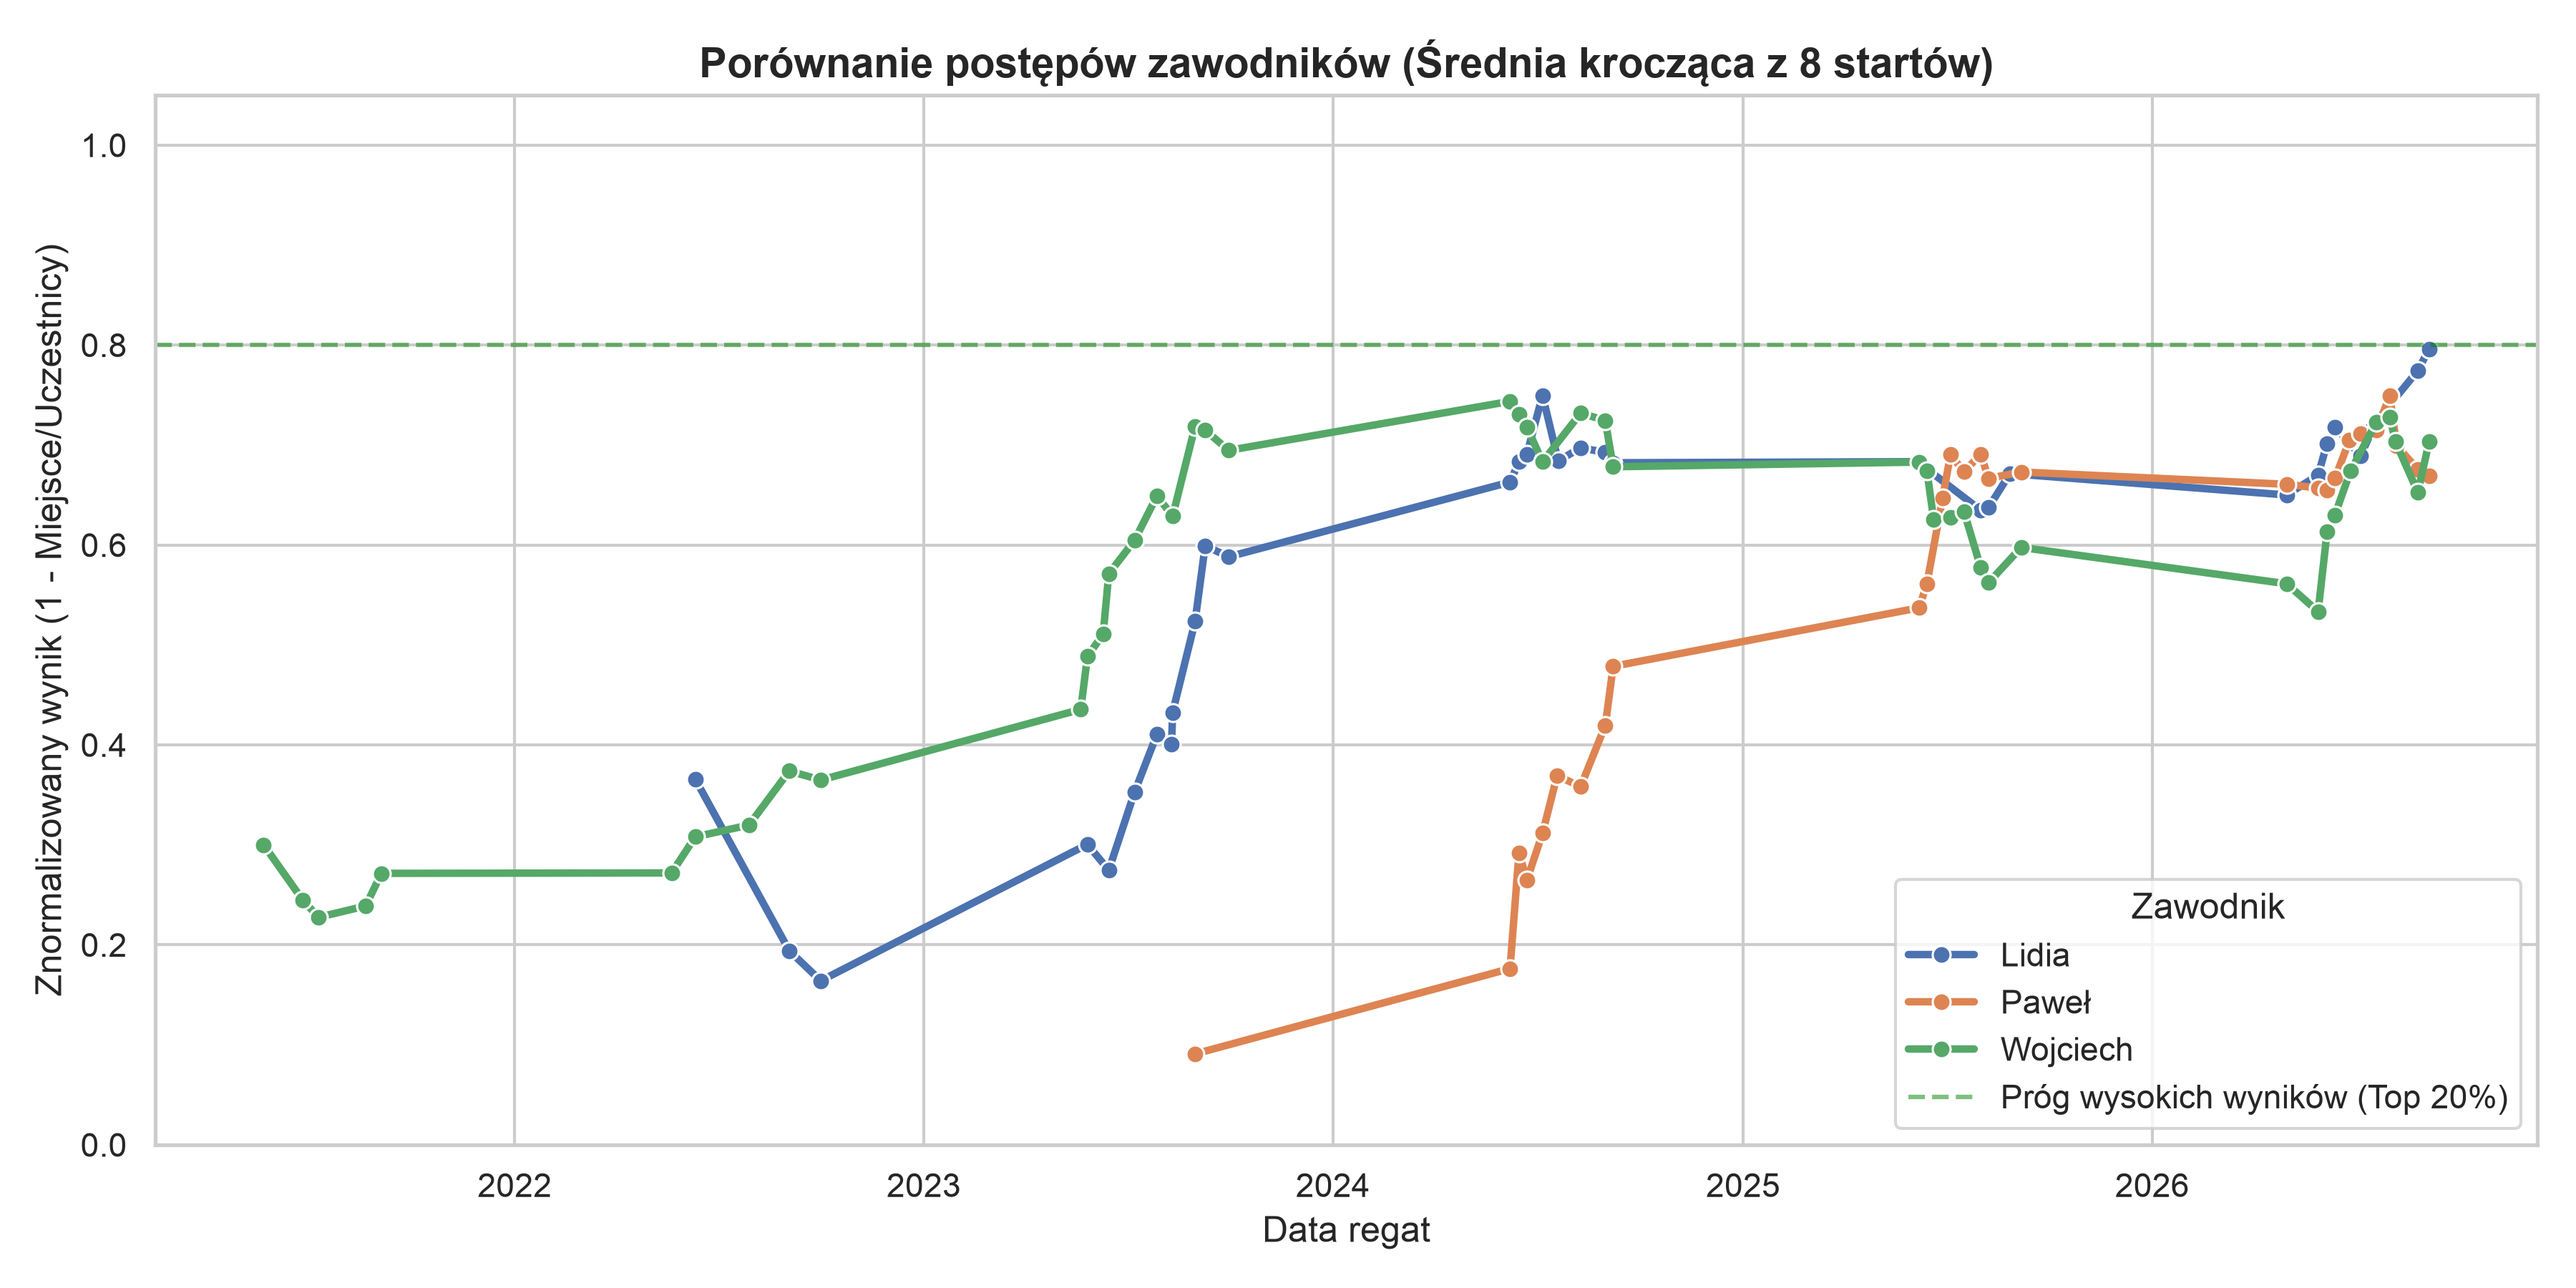
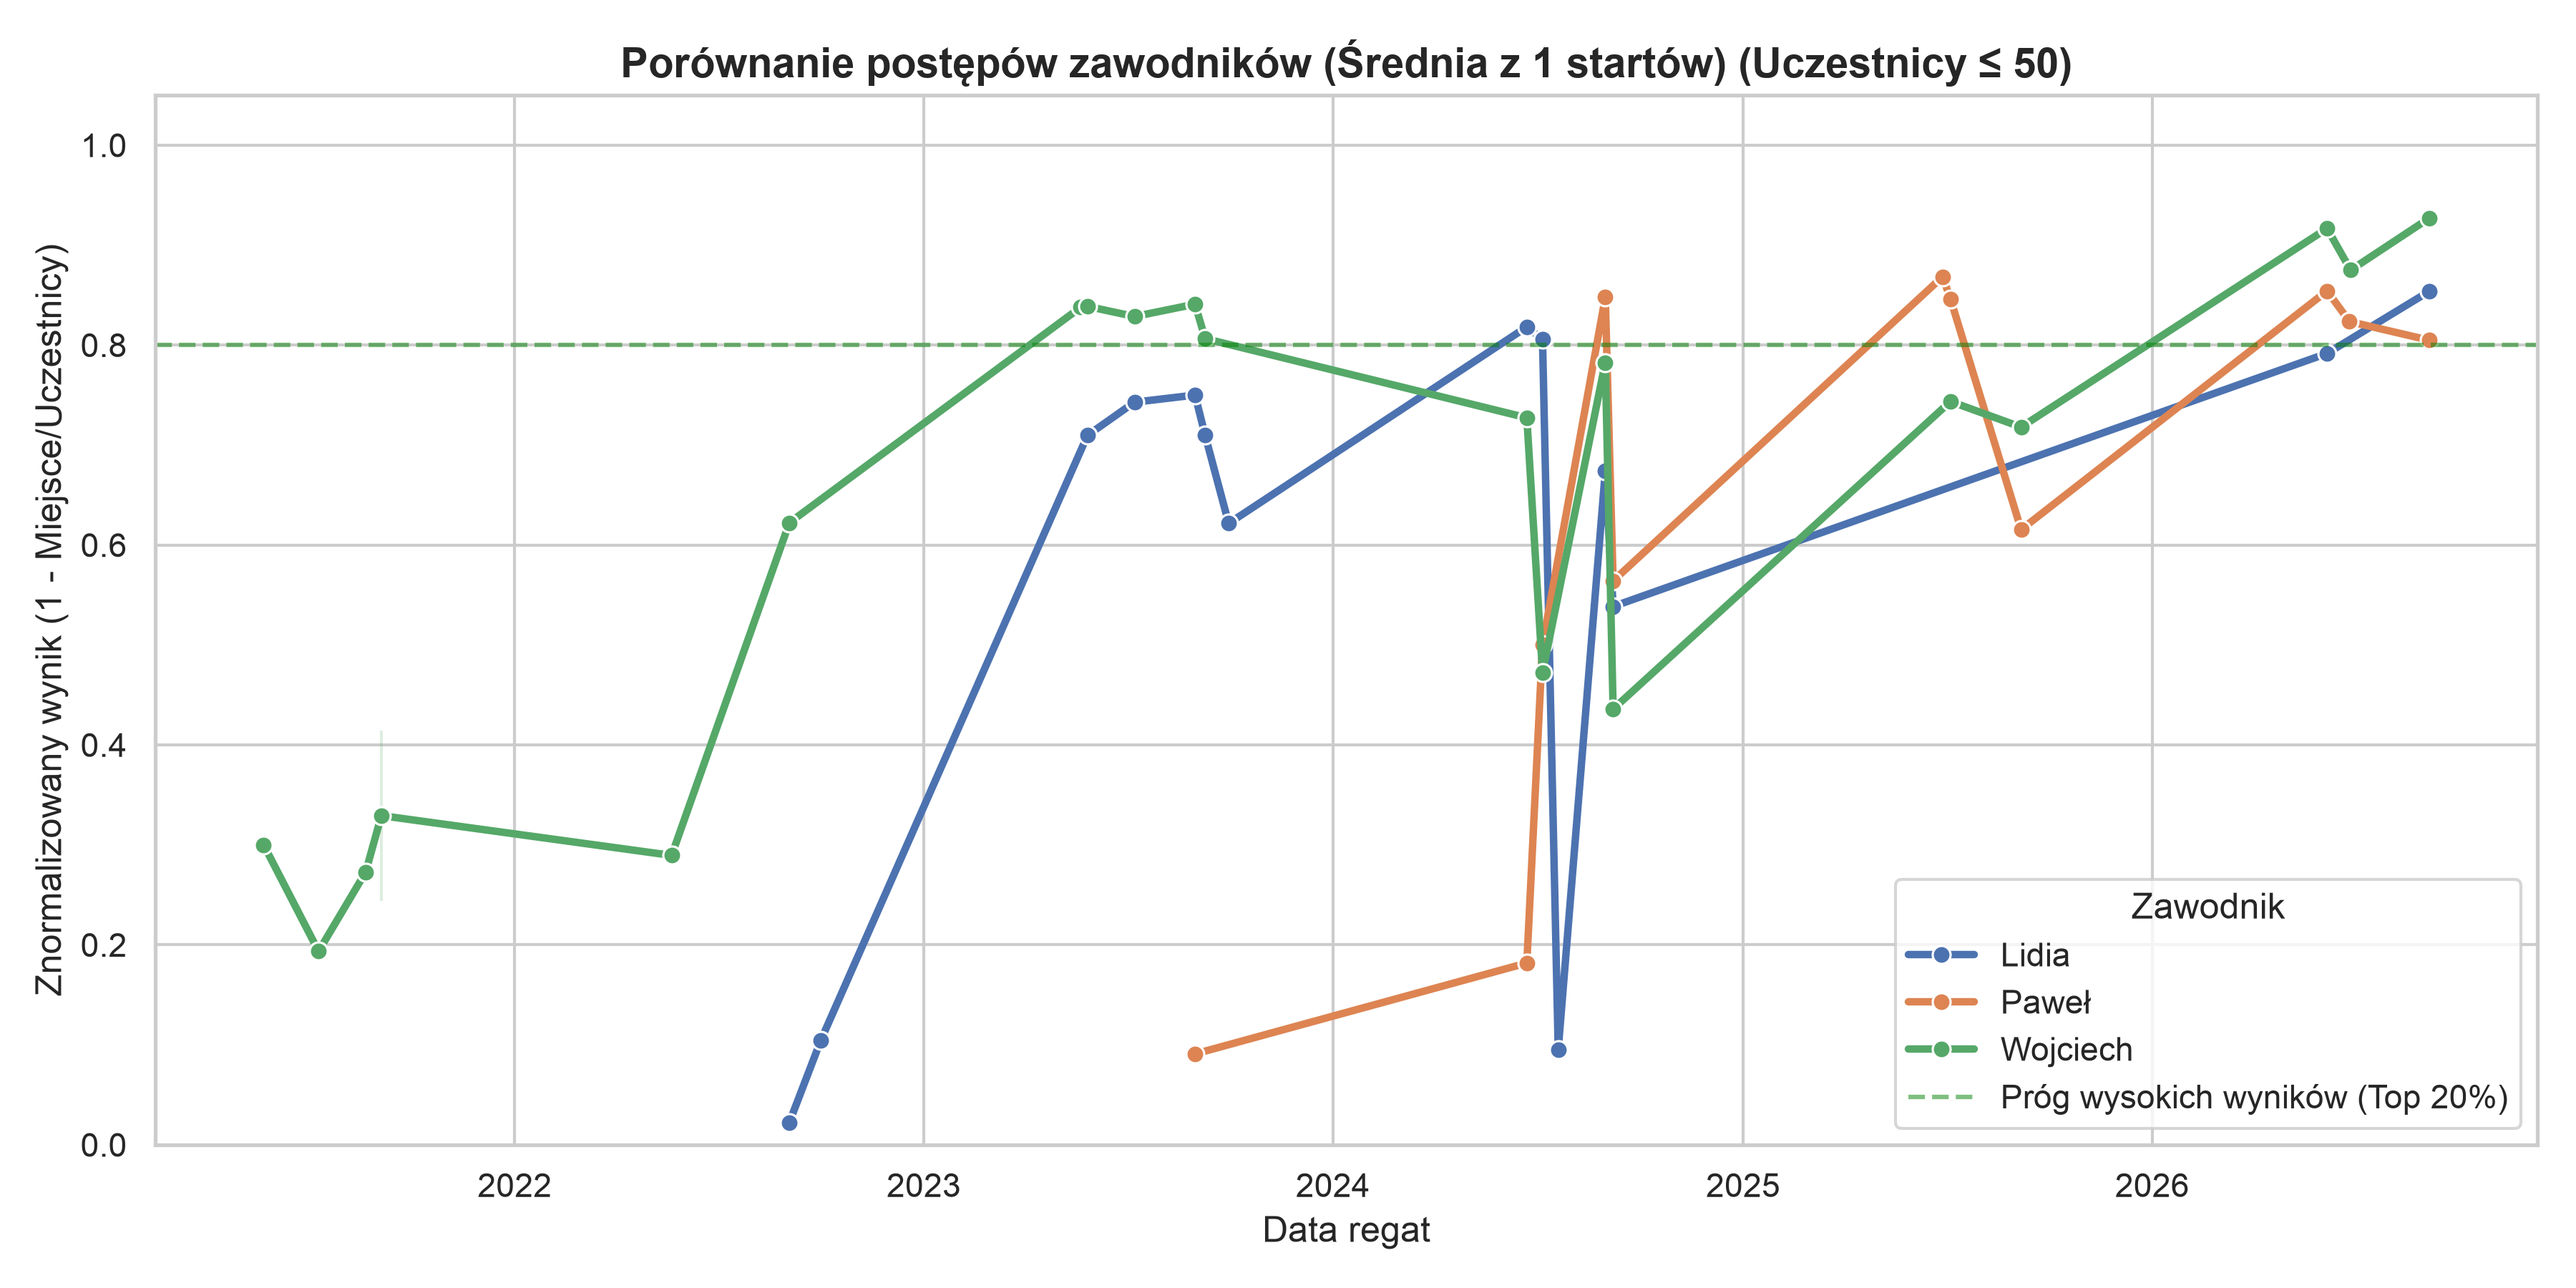
Feat: Dodanie filtracji regat (wielkość i wykluczanie z dynamiczną listą) w generate_charts.py

diff --git a/src/generate_charts.py b/src/generate_charts.py
@@ -14,24 +14,82 @@ os.makedirs(ASSETS_DIR, exist_ok=True)
 def get_window_size():
     """Pobiera od użytkownika rozmiar okna średniej kroczącej (1-10)."""
     user_input = input(
-        "Podaj liczbę startów do średniej kroczącej (1-10) [domyślnie: 10]: "
+        "\n1. Podaj liczbę startów do średniej kroczącej (1-10) [domyślnie: 10]: "
+    ).strip()
+    if not user_input:
+        return 10
+    try:
+        val = int(user_input)
+        return val if 1 <= val <= 10 else 10
+    except ValueError:
+        return 10
+
+
+def get_participant_filter():
+    """Pobiera filtr dotyczący liczby uczestników regat."""
+    print("\n2. Wybór filtru liczby uczestników regat:")
+    print("   [1] Wszystkie regaty (brak filtru)")
+    print("   [2] Tylko ogólnopolskie regaty (powyżej 50 zawodników)")
+    print("   [3] Tylko kregionalne regaty (50 i mniej zawodników)")
+    choice = input("   Wybierz opcję (1-3) [domyślnie: 1]: ").strip()
+
+    if choice == "2":
+        return "above_50"
+    elif choice == "3":
+        return "below_equal_50"
+    return "all"
+
+
+def get_excluded_regattas(filtered_df, regatta_col):
+    """Wyświetla listę regat (przefiltrowaną wstępnie wg liczby uczestników) i umożliwia wykluczenie pozycjonalne."""
+    print("\n3. Czy chcesz wykluczyć konkretne regaty z obecnej listy?")
+    choice = input("   [t/N]: ").strip().lower()
+
+    if choice != "t":
+        return []
+
+    # Pobranie unikalnych regat z przefiltrowanego już DataFrame
+    regatta_info = (
+        filtered_df[[regatta_col, "Liczba_uczestnikow"]]
+        .drop_duplicates()
+        .dropna(subset=[regatta_col])
+    )
+    regatta_info = regatta_info.sort_values(by=regatta_col)
+
+    if regatta_info.empty:
+        print("  Brak regat spełniających kryteria w bazie.")
+        return []
+
+    print("\n   Dostępne regaty (po uwzględnieniu filtru liczby uczestników):")
+    regattas_list = []
+    for idx, (_, row) in enumerate(regatta_info.iterrows(), 1):
+        name = row[regatta_col]
+        participants = int(row["Liczba_uczestnikow"])
+        regattas_list.append(name)
+        print(f"   [{idx}] {name} ({participants} zawodników)")
+
+    user_input = input(
+        "\nPodaj numery regat do wykluczenia rozdzielone przecinkami (np. 1, 4): "
     ).strip()
 
     if not user_input:
-        return 10
+        return []
 
-    try:
-        val = int(user_input)
-        if 1 <= val <= 10:
-            return val
-        print("⚠ Liczba spoza zakresu 1-10. Ustawiam domyślnie 10.")
-        return 10
-    except ValueError:
-        print("⚠ Nieprawidłowy format. Ustawiam domyślnie 10.")
-        return 10
+    excluded = []
+    for part in user_input.split(","):
+        try:
+            num = int(part.strip())
+            if 1 <= num <= len(regattas_list):
+                excluded.append(regattas_list[num - 1])
+        except ValueError:
+            continue
+
+    if excluded:
+        print(f"   Wykluczono: {', '.join(excluded)}")
+    return excluded
 
 
-def generate_chart(window_size):
+def generate_chart():
     if not os.path.exists(DB_PATH):
         raise FileNotFoundError(
             f"Brak bazy danych w {DB_PATH}. Uruchom wpierw src/etl.py!"
@@ -43,15 +101,51 @@ def generate_chart(window_size):
     conn.close()
 
     df["Data_rozpoczecia"] = pd.to_datetime(df["Data_rozpoczecia"])
+
+    # Określenie kolumny z nazwą regat
+    regatta_col = (
+        "Nazwa_regat_clean"
+        if "Nazwa_regat_clean" in df.columns
+        and df["Nazwa_regat_clean"].notna().any()
+        else "Nazwa_regat_raw"
+    )
+
+    # --- KONFIGURACJA FILTRÓW PRZEZ UŻYTKOWNIKA ---
+    window_size = get_window_size()
+    participant_filter = get_participant_filter()
+
+    # --- FILTR 1: LICZBA UCZESTNIKÓW (nakładany przed stworzeniem listy) ---
+    filter_label = ""
+    if participant_filter == "above_50":
+        df = df[df["Liczba_uczestnikow"] > 50]
+        filter_label = " (Uczestnicy > 50)"
+    elif participant_filter == "below_equal_50":
+        df = df[df["Liczba_uczestnikow"] <= 50]
+        filter_label = " (Uczestnicy ≤ 50)"
+
+    if df.empty:
+        print("Brak danych spełniających wybrany filtr liczby uczestników!")
+        return
+
+    # --- FILTR 2: WYKLUCZANIE KONKRETNYCH REGAT (z przefiltrowanej listy) ---
+    excluded_regattas = get_excluded_regattas(df, regatta_col)
+    if excluded_regattas:
+        df = df[~df[regatta_col].isin(excluded_regattas)]
+
+    if df.empty:
+        print("Wykluczono wszystkie dostępne regaty! Brak danych do wykresu.")
+        return
+
+    # Sortowanie pod średnią kroczącą
     df = df.sort_values(["Zawodnik", "Data_rozpoczecia"])
 
-    # Wyliczenie średniej kroczącej
+    # Obliczenie średniej kroczącej
     col_name = f"Srednia_kroczaca_{window_size}"
     df[col_name] = df.groupby("Zawodnik")["Normalizacja"].transform(
         lambda x: x.rolling(window=window_size, min_periods=1).mean()
     )
 
-    # Rysowanie wykresu
+    # --- RYSOWANIE WYKRESU ---
     sns.set_theme(style="whitegrid")
     plt.figure(figsize=(12, 6))
 
@@ -65,7 +159,7 @@ def generate_chart(window_size):
     )
 
     plt.title(
-        f"Porównanie postępów zawodników (Średnia krocząca z {window_size} startów)",
+        f"Porównanie postępów zawodników (Średnia z {window_size} startów){filter_label}",
         fontsize=14,
         fontweight="bold",
     )
@@ -82,16 +176,14 @@ def generate_chart(window_size):
     plt.legend(title="Zawodnik")
     plt.tight_layout()
 
-    # Zapis wykresu
+    # Zapis
     chart_path = os.path.join(ASSETS_DIR, "porownanie_zawodnikow.png")
     plt.savefig(chart_path, dpi=300)
-    print(
-        f"Wygenerowano wykres dla średniej z {window_size} startów -> {chart_path}"
-    )
+    print(f"\n Wykres zapisano w: {chart_path}")
     plt.show()
 
 
 if __name__ == "__main__":
-    selected_window = get_window_size()
-    generate_chart(selected_window)
+    generate_chart()
+
 
